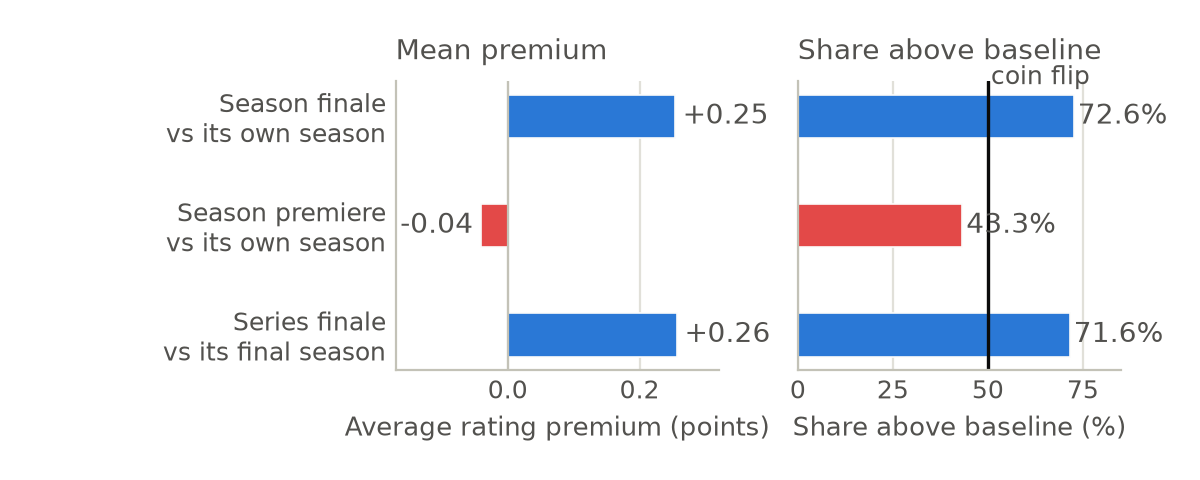
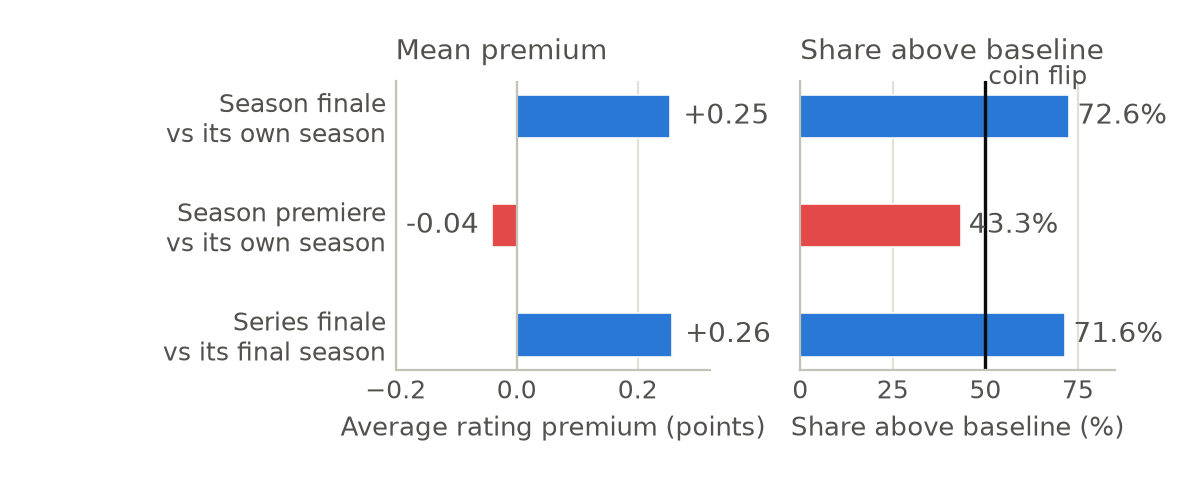
Fix the float placement and label clearances the second compile exposed
The paper plates worked: labels are legible, the figures no longer carry a
second title, and the measure is down from a median 92 characters a line to 81.
Three faults were left.

Page 7 held two figures and 77 words, with a wide white band between them.
Section-level float barriers do not stop figures from different subsections
queueing onto the same page, so every subsection now flushes its floats.

The appendix regression table floated onto a page of its own, ending the
document on a lone table. It is no longer a float: \captionof keeps its number
and caption while the table stays under its own heading.

Value labels sat on top of the marks they annotate - the threshold sweep's
percentages crossed the line, and the finale premia touched their bars. These
offsets were fixed data distances tuned on the wide canvas, where the text is
half the relative size; they now scale with the mode.

Verified again after every change that the essay figures come out
byte-identical, so none of this leaked into the other deliverable.

diff --git a/docs/technical_report.tex b/docs/technical_report.tex
@@ -21,6 +21,8 @@
 % Keeps each section's floats inside that section instead of letting them queue
 % up and land three-to-a-page with no text between them.
 \usepackage{placeins}
+% \captionof outside a float (appendix table).
+\usepackage{capt-of}
 
 % Find the figures whether they sit next to the .tex or in a folder. The paper/
 % plates come first: same data as the essay figures, but with no in-image title
@@ -97,6 +99,7 @@ replication.
 \FloatBarrier
 \section{Data}
 
+\FloatBarrier
 \subsection{Source}
 
 All ratings come from the IMDb public datasets~\cite{imdb}, downloaded on
@@ -108,6 +111,7 @@ to its parent series, season and episode number), \texttt{title.ratings} (mean
 rating and vote count per title) and \texttt{title.basics} (title type,
 primary title, start year, end year, genres).
 
+\FloatBarrier
 \subsection{Construction}
 
 Episodes with a missing season or episode number are dropped, since ordering
@@ -119,6 +123,7 @@ a within-show sequential index is assigned. Series with an empty end year are
 flagged as ongoing rather than dropped. The result is one row per rated
 episode.
 
+\FloatBarrier
 \subsection{Inclusion criteria}
 
 Six filters define the analysis population (Table~\ref{tab:incl}).
@@ -145,6 +150,7 @@ Documentary cap & kept only if $<100$ episodes & separates season-based series f
 The documentary rule is platform-independent, since the data carry no channel
 or platform field.
 
+\FloatBarrier
 \subsection{Sample}
 
 Table~\ref{tab:sample} describes the resulting panel.
@@ -180,6 +186,7 @@ right (Section~\ref{sec:cross}).
 \FloatBarrier
 \section{Methods}
 
+\FloatBarrier
 \subsection{Per-show trajectory}
 \label{sec:traj}
 
@@ -227,6 +234,7 @@ lets the heavily-voted final-season cluster set the trend for the whole run;
 the single most-voted episode is in fact a mid-run 9.9.}
 \end{figure}
 
+\FloatBarrier
 \subsection{Final-season effect}
 \label{sec:delta}
 
@@ -243,6 +251,7 @@ ended series only,
 and use $\Delta$ for all final-season claims. A series is termed \emph{clearly
 cursed} if $\Delta \le -0.5$.
 
+\FloatBarrier
 \subsection{Trajectory shape}
 \label{sec:shape}
 
@@ -255,6 +264,7 @@ and is monotone over it. Note this last class is not ``flat'': it contains
 steep monotone decliners and risers alike. Volatility is the weighted RMSE of
 the linear fit's residuals.
 
+\FloatBarrier
 \subsection{Peak location}
 
 For each series we take the argmax of season means, reported both as an
@@ -263,6 +273,7 @@ $(\mathrm{rank}-1)/(n_{\text{seasons}}-1)$. Because the sample is dominated by
 short series, aggregate statements about the peak are reported stratified by
 season count.
 
+\FloatBarrier
 \subsection{Cross-sectional model}
 \label{sec:model}
 
@@ -291,6 +302,7 @@ hues that had been used together.
 \FloatBarrier
 \section{Results}
 
+\FloatBarrier
 \subsection{The distribution of trajectories}
 
 \begin{figure}[htbp]
@@ -306,6 +318,7 @@ clearly, 57.4\% are essentially flat, and 25.7\% rise clearly}. Under the folk
 belief we would expect a distribution massed below zero; we observe a
 distribution massed \emph{at} zero with a mild positive tilt.
 
+\FloatBarrier
 \subsection{Stability across a series' run}
 \label{sec:halves}
 
@@ -327,6 +340,7 @@ exists---but it is very small. In levels, top-quartile starters (first-half
 mean 8.32) lose \textbf{0.07} rating points in their second half, and
 bottom-quartile starters (6.94) gain 0.07.
 
+\FloatBarrier
 \subsection{Finale structure}
 
 \begin{figure}[htbp]
@@ -351,6 +365,7 @@ mildly below average, and the asymmetry is large. Only 9.4\% of series finales
 fall 0.5 points or more below their final season---the memorable ``finale
 flop'' is a one-in-ten event.
 
+\FloatBarrier
 \subsection{The final-season effect}
 
 \begin{figure}[htbp]
@@ -375,6 +390,7 @@ cliff'' case is essentially absent: all 32 series with $\Delta \le -1.0$ and at
 least 30,000 votes also have a negative overall slope, which is
 mechanical---a late crash necessarily tilts a fitted line downward.
 
+\FloatBarrier
 \subsection{Era, length and genre}
 \label{sec:cross}
 
@@ -408,6 +424,7 @@ residual SD 0.756). The effects are estimated precisely but are small relative
 to the idiosyncratic differences between series; no combination of a show's
 age, length and genre comes close to determining its trajectory.
 
+\FloatBarrier
 \subsection{Shape and peak location}
 
 \begin{figure}[htbp]
@@ -611,11 +628,10 @@ genre indicators. $n = 3{,}234$, $R^2 = 0.0603$, residual SD 0.756. Premiere
 year is centred; the genre reference category is ``not carrying that genre''.
 Table~\ref{tab:ols} reports every coefficient.
 
-\begin{table}[htbp]
-\centering
+\begin{center}
 \small
-\caption{Full cross-sectional model. ``Series'' counts how many series carry
-each genre tag; genres are non-exclusive.}
+\captionof{table}{Full cross-sectional model. ``Series'' counts how many series
+carry each genre tag; genres are non-exclusive.}
 \label{tab:ols}
 \begin{tabular}{lrrrr}
 \toprule
@@ -644,7 +660,7 @@ Documentary               & $-0.2345$ & 0.0858 & $-2.73$ & 101 \\
 Biography                 & $-0.2436$ & 0.1083 & $-2.25$ & 53 \\
 \bottomrule
 \end{tabular}
-\end{table}
+\end{center}
 
 \section{Reproduction}
 

diff --git a/notebooks/phase3_figures.py b/notebooks/phase3_figures.py
@@ -264,8 +264,9 @@ def fig03_finale_premium():
     ax1.barh(ypos, means, height=0.4, color=[BLUE if m >= 0 else RED for m in means],
              edgecolor=SURFACE, linewidth=0.6)
     ax1.axvline(0, color=AXIS, linewidth=0.8)
+    gap = wording(0.012, 0.022)  # larger text on the paper canvas needs more clearance
     for y, m in zip(ypos, means):
-        ax1.text(m + (0.012 if m >= 0 else -0.012), y, f"{m:+.2f}",
+        ax1.text(m + (gap if m >= 0 else -gap), y, f"{m:+.2f}",
                  va="center", ha="left" if m >= 0 else "right",
                  fontsize=10, color=INK_2)
     ax1.set_yticks(ypos)
@@ -273,7 +274,7 @@ def fig03_finale_premium():
     # The negative bar's value label is drawn to its left; on the paper canvas
     # that text is larger, so the axis needs more room or it lands on the
     # category labels outside the plot.
-    ax1.set_xlim(wording(-0.1, -0.17), 0.32)
+    ax1.set_xlim(wording(-0.1, -0.20), 0.32)
     ax1.set_xlabel("Average rating premium (points)")
     fs.panel_title(ax1, wording("How much better than the rest",
                               "Mean premium"))
@@ -289,7 +290,7 @@ def fig03_finale_premium():
     ax2.text(50.8, ypos[0] + wording(0.38, 0.24), "coin flip",
              color=INK_2, fontsize=9, va="bottom")
     for y, p in zip(ypos, pcts):
-        ax2.text(p + 1, y, f"{p:.1f}%", va="center", ha="left",
+        ax2.text(p + wording(1, 2.2), y, f"{p:.1f}%", va="center", ha="left",
                  fontsize=10, color=INK_2)
     ax2.set_yticks(ypos)
     ax2.set_yticklabels([])
@@ -363,7 +364,10 @@ def fig04_final_season_curse():
              markersize=8, markerfacecolor=RED, markeredgecolor=SURFACE,
              markeredgewidth=2)
     for i, (t, v) in enumerate(zip(thresholds, sweep)):
-        ax2.text(i, v + 1.6, f"{v:.1f}%", ha="center", fontsize=9.5, color=INK_2)
+        # The label clears the marker by a fixed data offset; on the paper canvas
+        # the text is twice the size relative to the axes, so it needs more room.
+        ax2.text(i, v + wording(1.6, 2.8), f"{v:.1f}%", ha="center",
+                 fontsize=9.5, color=INK_2)
     ax2.set_xticks(range(len(thresholds)))
     ax2.set_xticklabels([f"{t}" for t in thresholds])
     ax2.set_ylim(0, 36)
